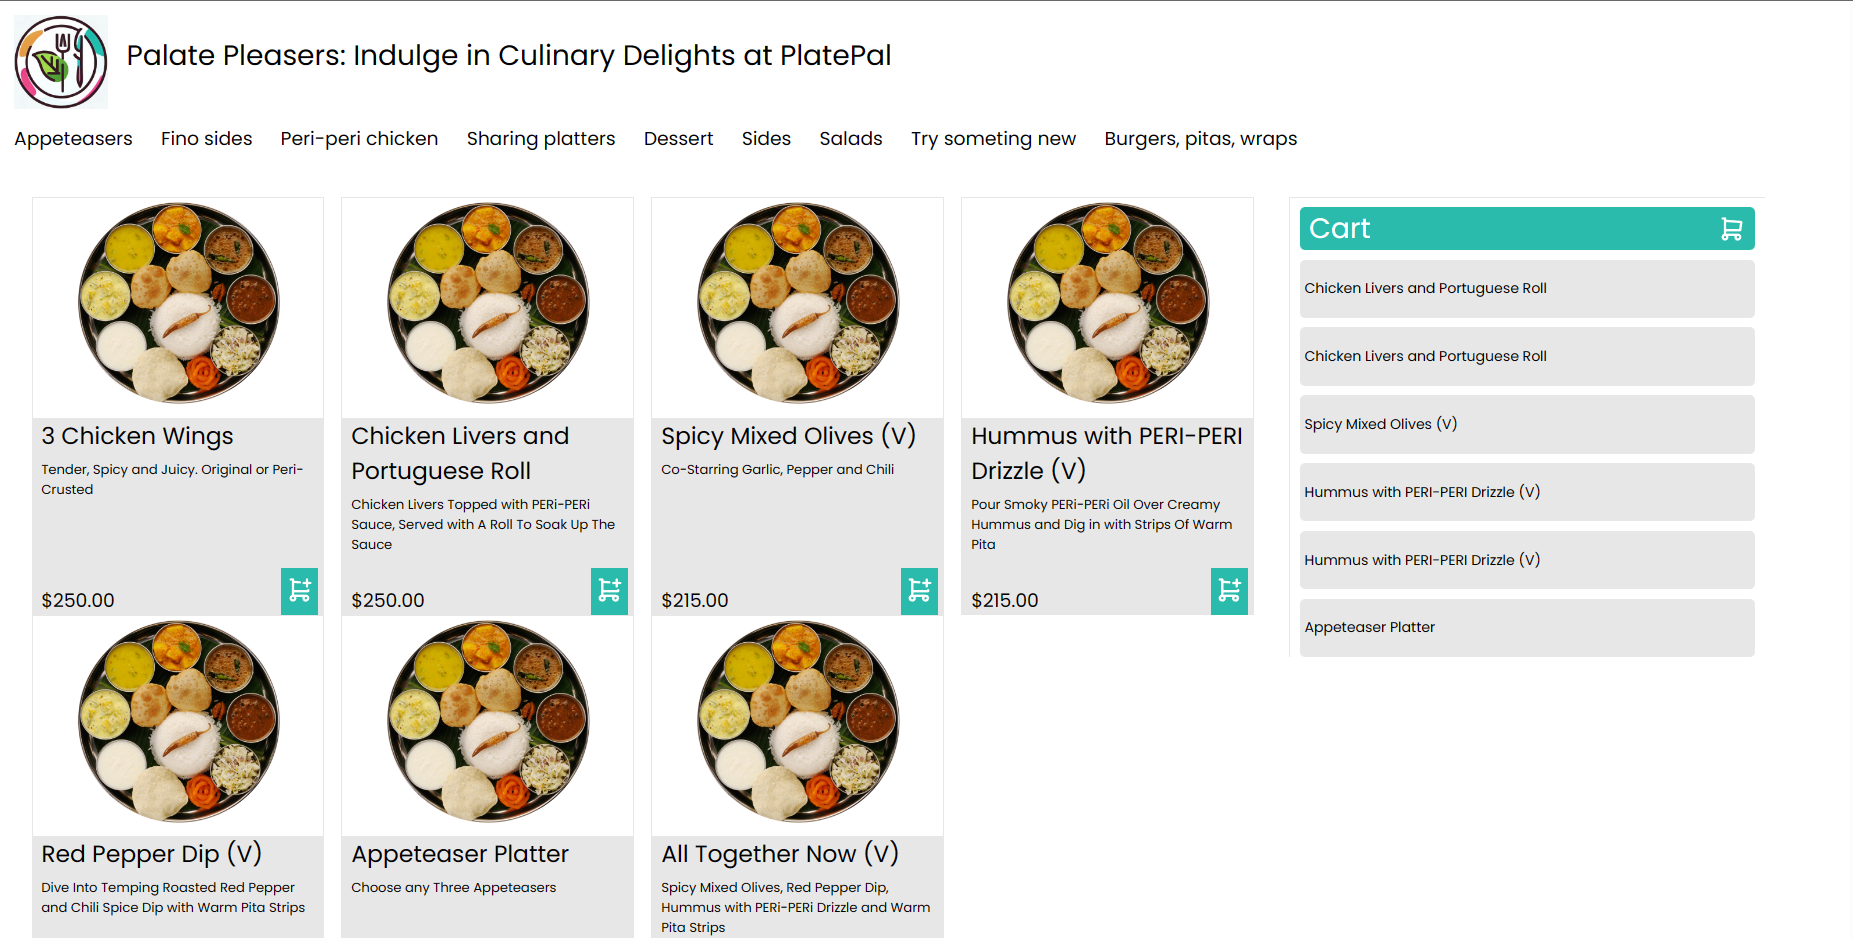
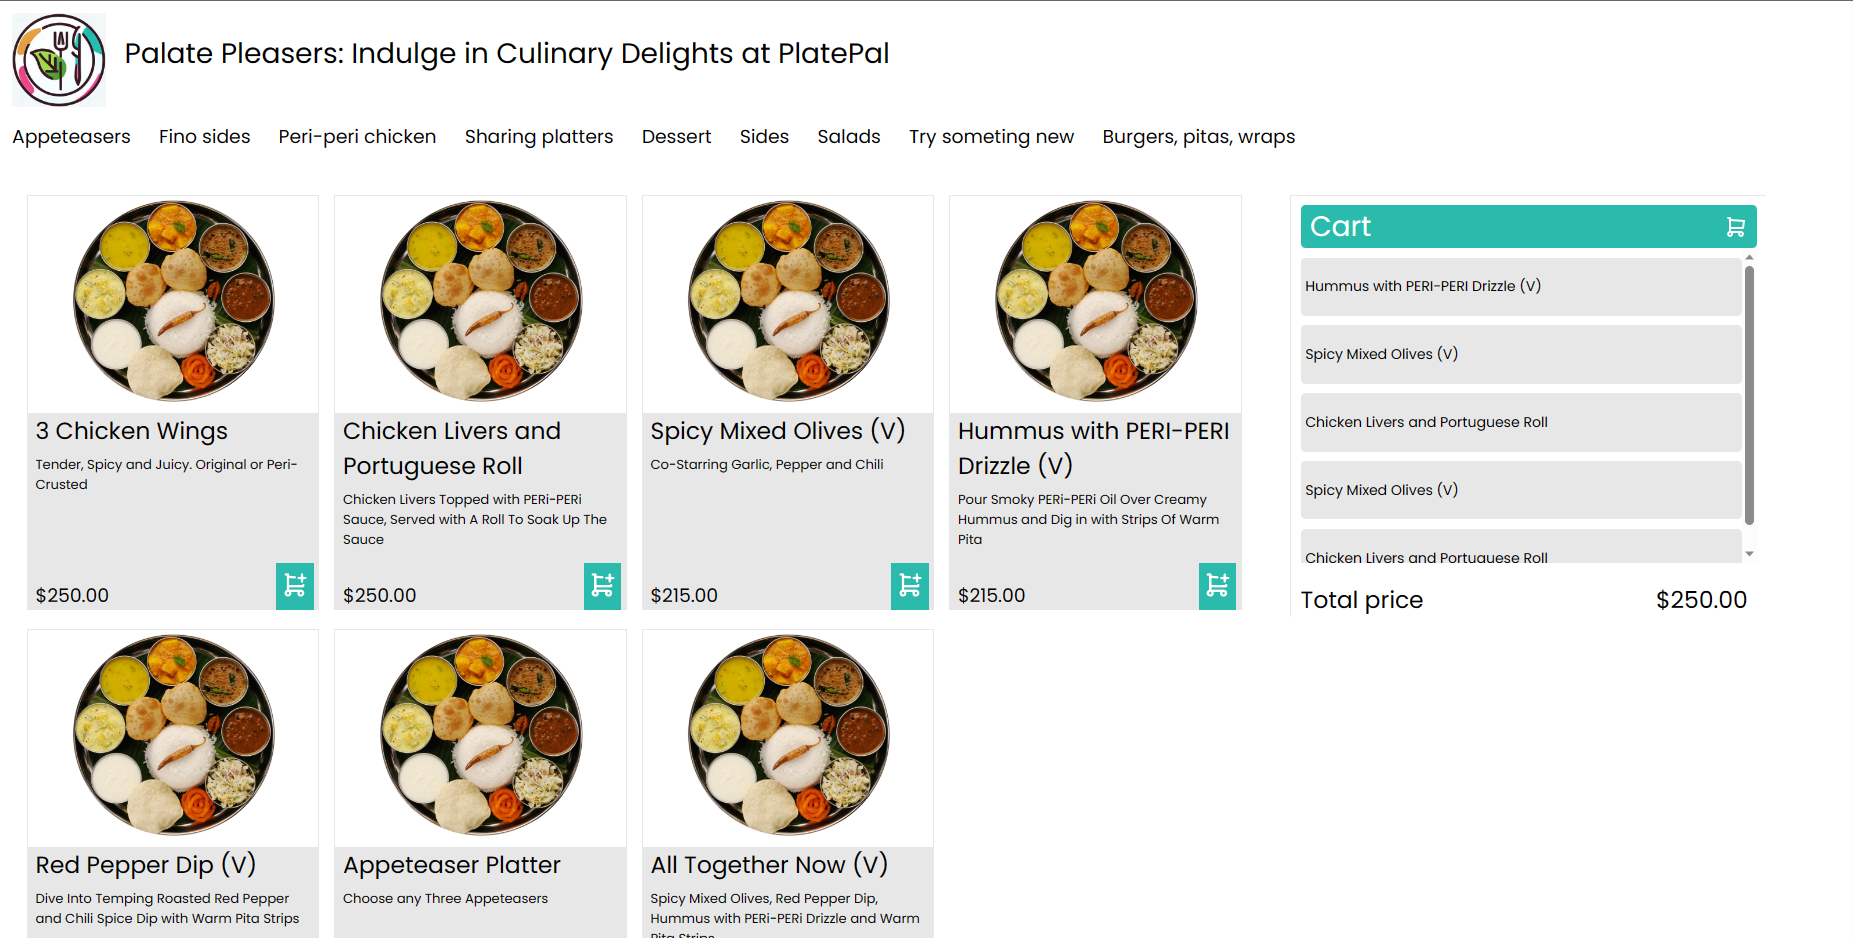
added scroll on cart items list and price information

diff --git a/src/index.css b/src/index.css
@@ -68,6 +68,7 @@
   border-bottom: none;
   margin-left: 10px;
   position: relative;
+  margin-bottom: 2vh;
 }
 
 .plate-image {
@@ -150,6 +151,11 @@
   right: 1vh;
 }
 
+.cart-midle-container {
+  max-height: 210px;
+  overflow-y: scroll;
+}
+
 .cart-item-card {
   margin-top: 1vh;
   padding: .5vh .5vh .5vh .5vh;
@@ -159,4 +165,24 @@
 
 .cart-item-name {
   font-size: 1.5vh;
+}
+
+.cart-bottom-container {
+  margin-top: 2vh;
+  display: flex;
+  position: relative;
+}
+
+.cart-price-title {
+  margin: 0;
+  font-size: 2.5vh;
+  font-weight: 300;
+}
+
+.cart-total-price {
+  margin: 0;
+  font-size: 2.5vh;
+  font-weight: 300;
+  position: absolute;
+  right: 1vh;
 }

diff --git a/src/components/Cart.jsx b/src/components/Cart.jsx
@@ -17,6 +17,10 @@ const Cart = () => {
                     <CartItem key={item.id} item={item}/>
                 ))}
             </div>
+            <div className="cart-bottom-container">
+                <h1 className="cart-price-title">Total price</h1>
+                <h1 className="cart-total-price">$250.00</h1>
+            </div>
         </div>
     )
 }

diff --git a/src/components/CartItem.jsx b/src/components/CartItem.jsx
@@ -1,11 +1,15 @@
-const CartItem = ({ item }) => {
-  console.log(item)
+import PropTypes from 'prop-types';
 
+const CartItem = ({ item }) => {
   return (
     <div className="cart-item-card">
       <p className="cart-item-name">{item.name}</p>
     </div>
   )
 }
+
+CartItem.propTypes = {
+  item: PropTypes.node.isRequired,
+};
 
 export default CartItem
